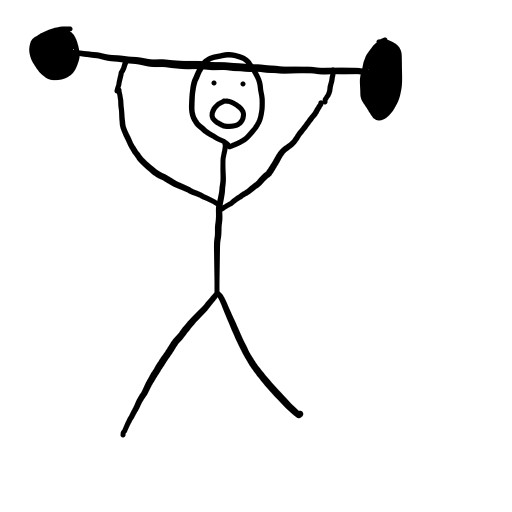
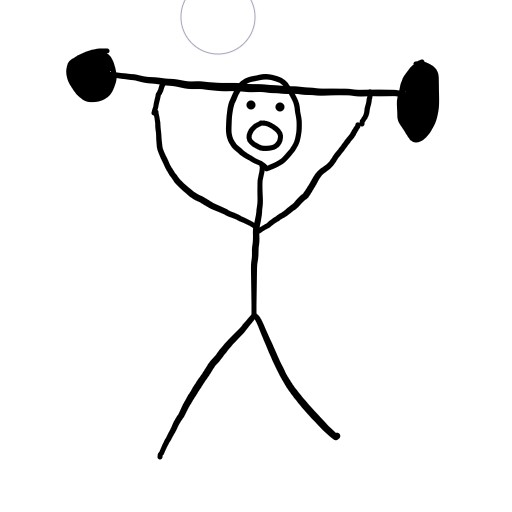
Improved mobile weights

Changed region(s): [[0.0312, 0.0, 0.875, 0.9062], [0.2188, 0.625, 0.375, 0.875], [0.3438, 0.0, 0.375, 0.0625]]

diff --git a/weights.html b/weights.html
@@ -1,5 +1,7 @@
 <!doctype html><html lang="en"><head><meta charset="utf-8">
-<meta name="apple-mobile-web-app-capable" content="yes"><meta name="apple-mobile-web-app-title" content="Lifts"><meta name="theme-color" content="#eaf1f8"><link rel="apple-touch-icon" sizes="512x512" href="Weights.jpg"><link rel="icon" type="image/jpeg" sizes="512x512" href="Weights.jpg">
+<meta name="apple-mobile-web-app-capable" content="yes">
+<meta name="viewport" content="width=device-width, initial-scale=1, viewport-fit=cover">
+<meta name="apple-mobile-web-app-title" content="Lifts"><meta name="theme-color" content="#eaf1f8"><link rel="apple-touch-icon" sizes="512x512" href="Weights.jpg"><link rel="icon" type="image/jpeg" sizes="512x512" href="Weights.jpg">
 <title>Lift Tracker</title>
 <style>
 :root{--bg:#eaf1f8;--card:#f7fafc;--ink:#132238;--mut:#61758d;--acc:#2563eb;--ln:#cfdae7;--ok:#0f766e;
@@ -50,6 +52,25 @@ tr:last-child td{border-bottom:0}
 .confirm-actions button{margin:0}
 .confirm-copy{margin:10px 0 0;color:var(--mut);font-size:14px}
 .reset-status{text-align:center;color:var(--mut);min-height:1.4em;margin:10px 0 0}
+@media(max-width:600px){
+ main{width:100%;max-width:none;padding:12px 12px calc(40px + env(safe-area-inset-bottom,0px))}
+ .home-head{min-height:56px}
+ .home-head h1{font-size:30px}
+ h2{font-size:14px;margin-top:24px}
+ a.row{min-height:68px;padding:18px;font-size:17px;border-radius:16px}
+ .back{font-size:17px;padding:12px 0}
+ .tag{font-size:14px}
+ .big{margin:12px 0 10px}
+ .big input{width:4.1ch;font-size:clamp(112px,42vw,180px);line-height:1;min-height:180px}
+ .big small{font-size:24px}
+ .steps{gap:12px}
+ button{font-size:24px;min-height:72px;border-radius:16px}
+ textarea{font-size:16px;line-height:1.45;padding:14px;min-height:112px}
+ .hint{font-size:16px;margin-top:14px}
+ th,td{padding:14px 10px;font-size:15px}
+ .menu-panel{width:min(300px,calc(100vw - 24px))}
+ .menu-panel button{min-height:52px;font-size:16px}
+}
 </style></head><body><main id="app"></main>
 <script>
 const DAYS=[
